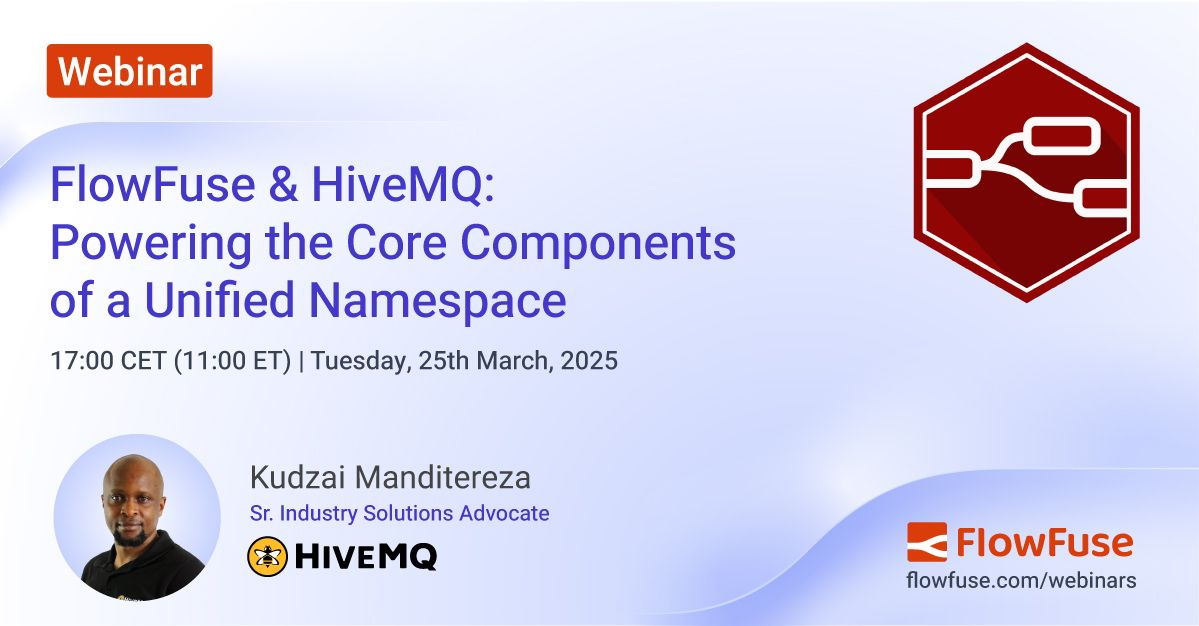
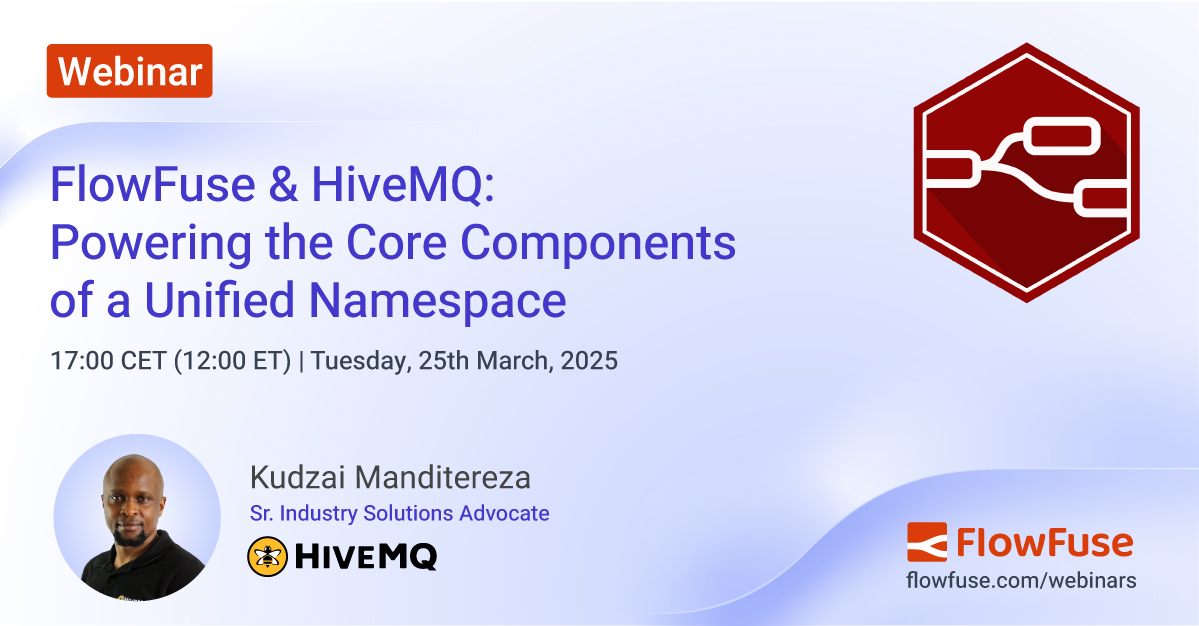
Update time

diff --git a/src/webinars/2025/flowfuse-and-hivemq-powering-the-core-components-of-a-unified-namespace.md b/src/webinars/2025/flowfuse-and-hivemq-powering-the-core-components-of-a-unified-namespace.md
@@ -4,7 +4,7 @@ meta:
     description: Join this webinar to learn how to use FlowFuse (Node-RED) and HiveMQ (MQTT) platforms to build a Unified Namespace (UNS) that integrates enterprise and control domain data for improved production scheduling and machine performance monitoring.
 image: /images/webinars/flowfuse-and-hivemq-powering-the-core-components-of-a-unified-namespace.jpg
 date: 2025-03-25
-time: 17:00 CET (11:00am ET) 
+time: 17:00 CET (12:00pm ET) 
 duration: 60
 video: 
 hosts: ["kudzai-manditereza"]
